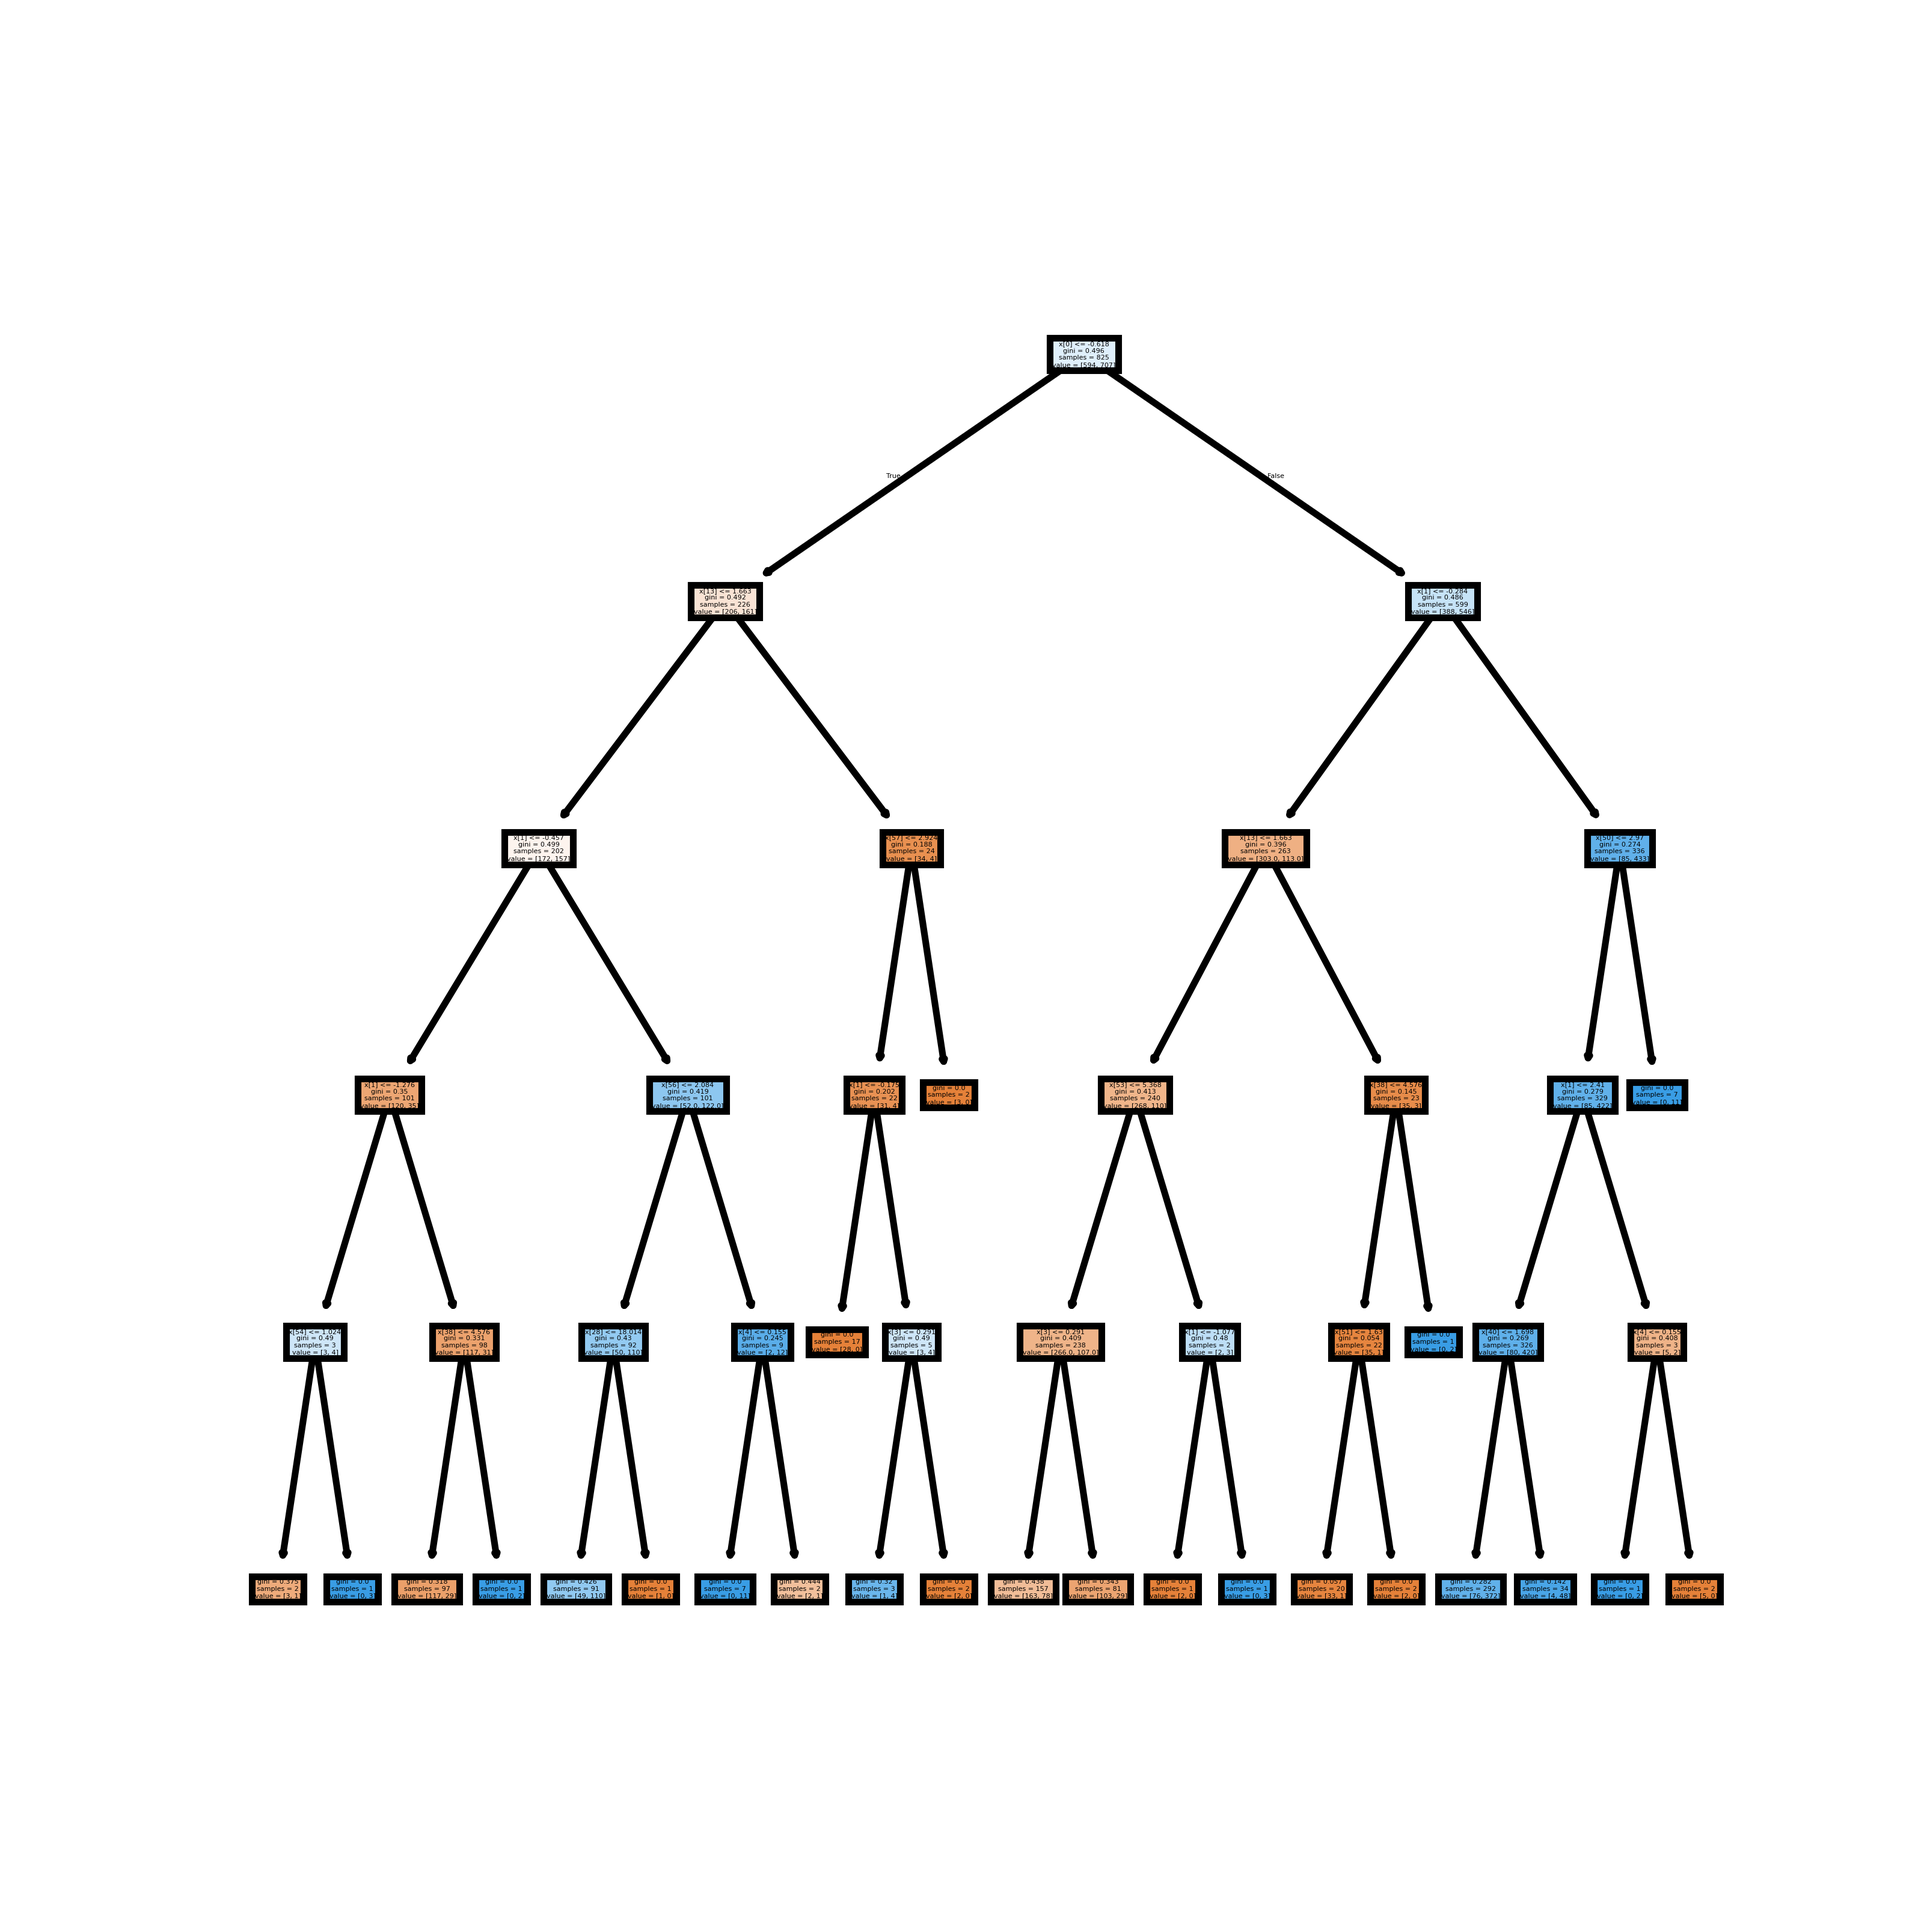
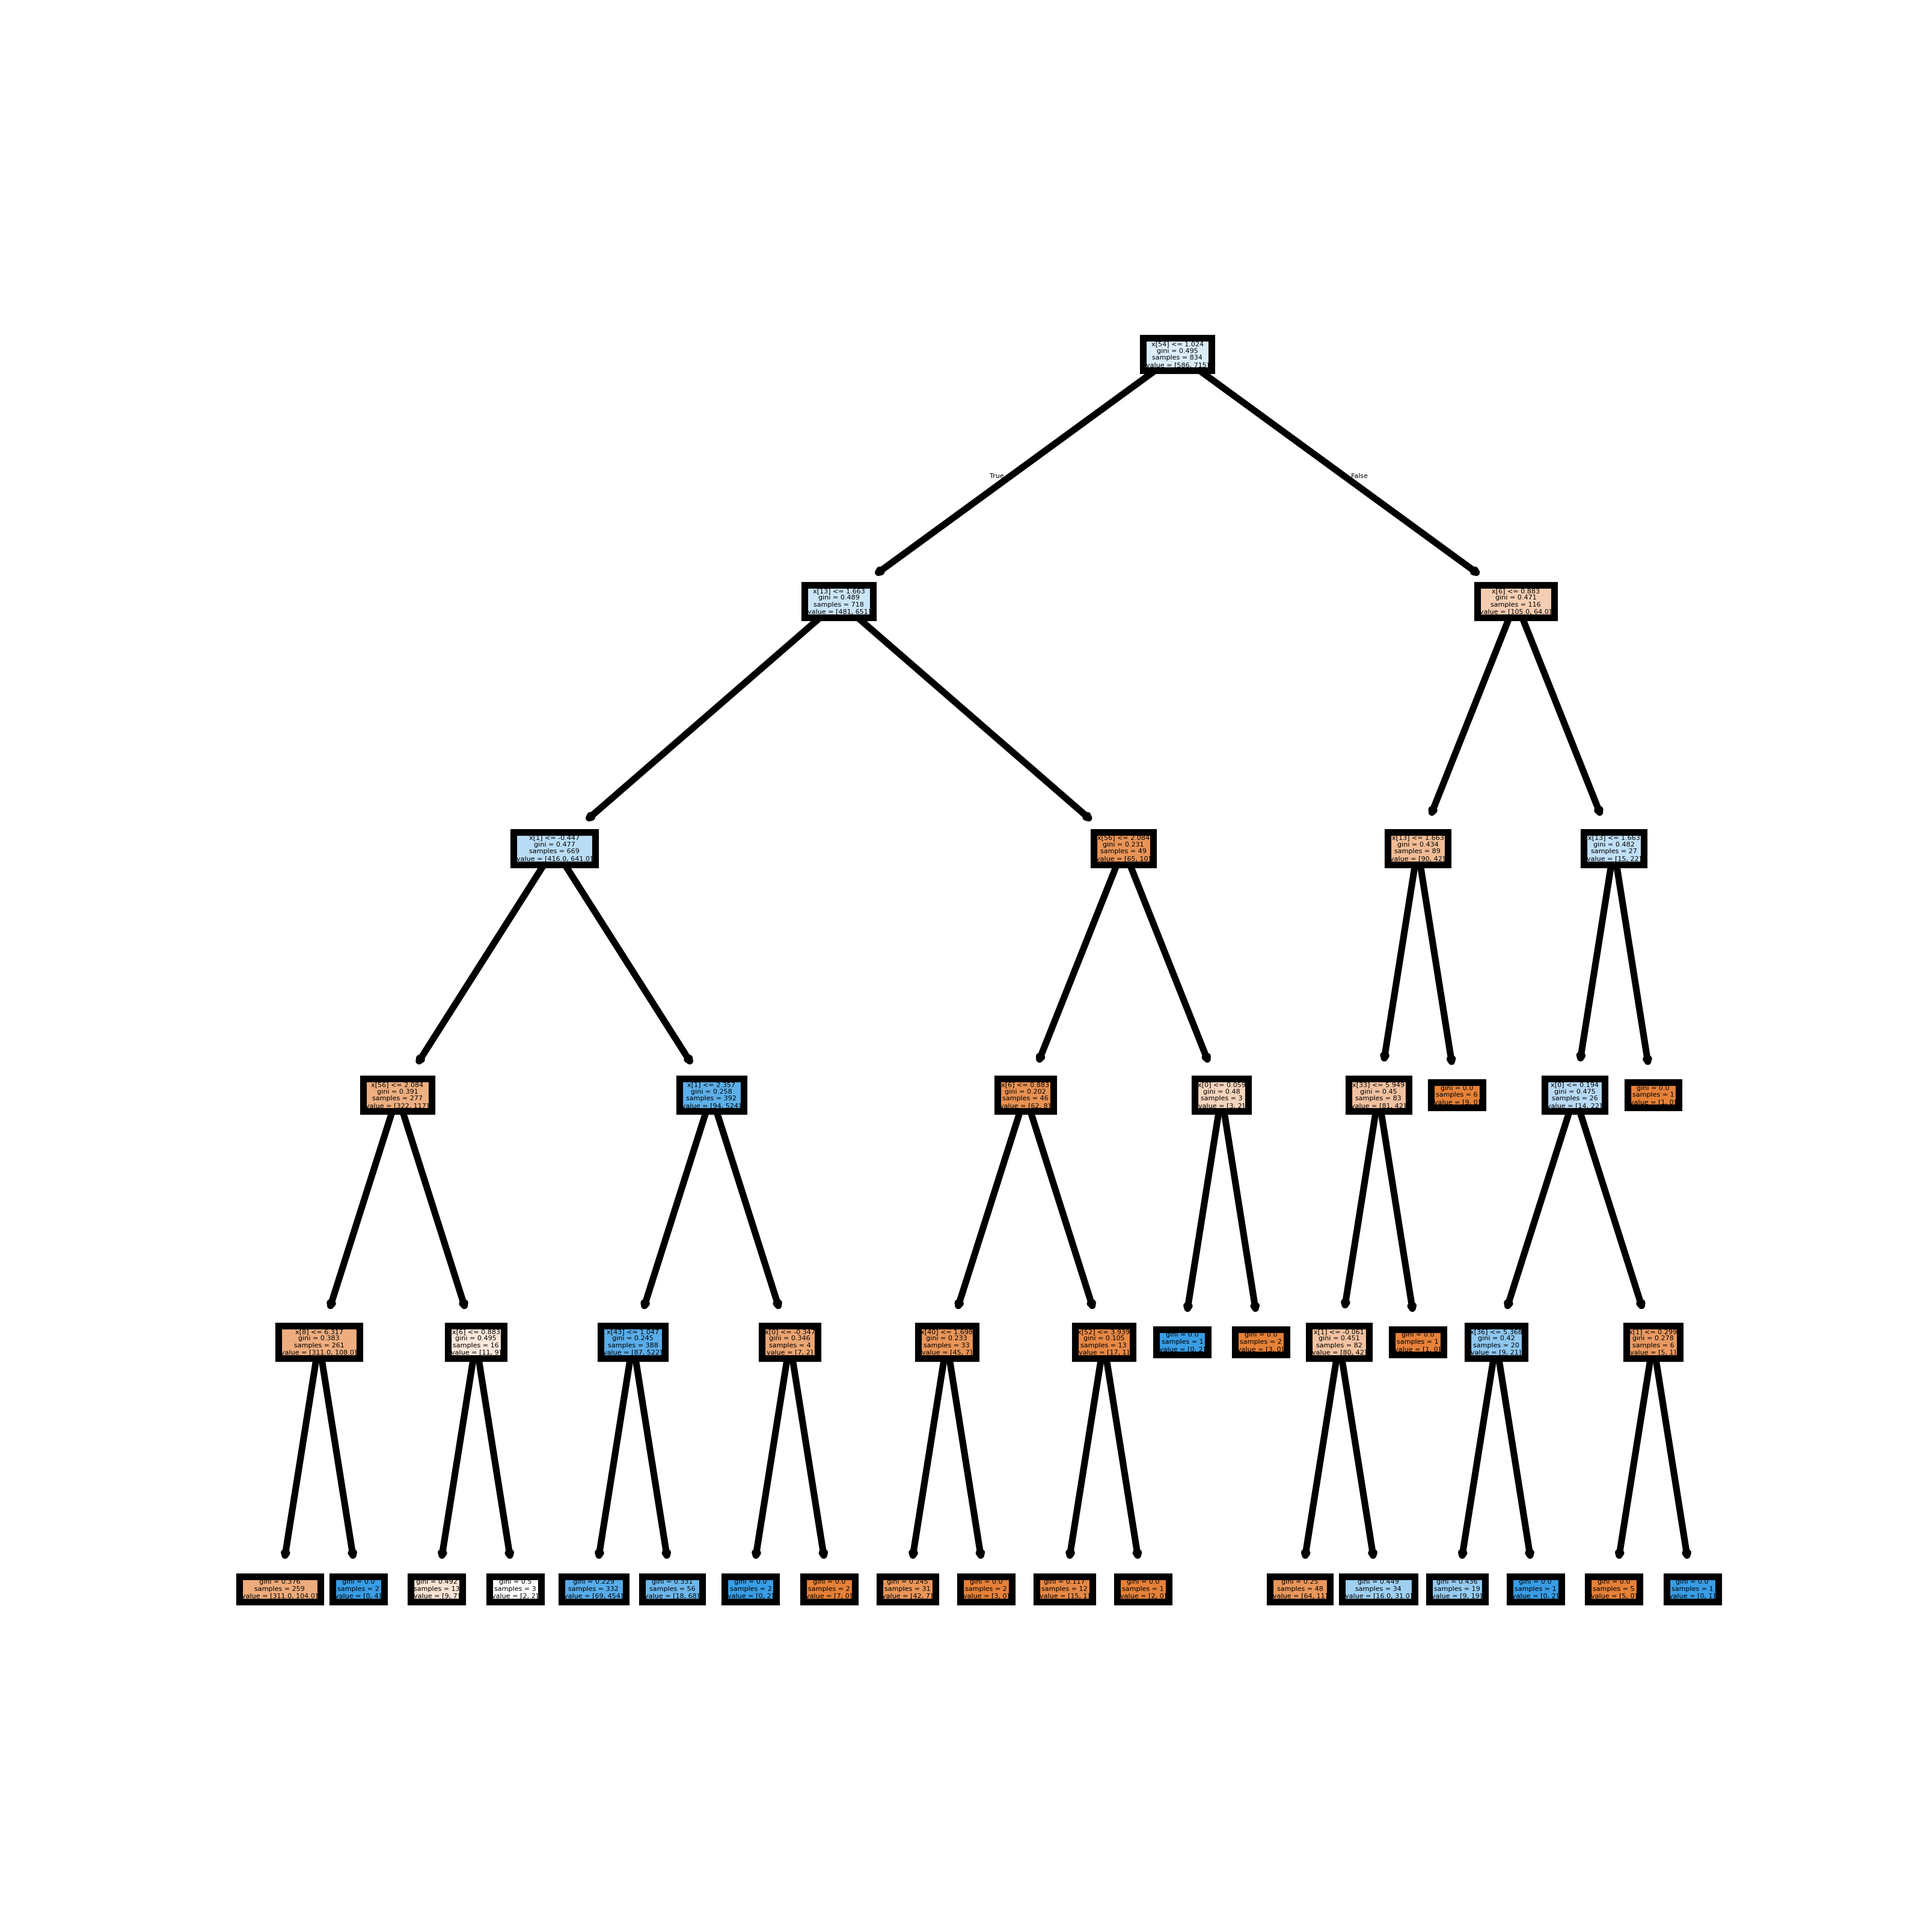
Adding files

diff --git a/Lead_scoring_dashboard.py b/Lead_scoring_dashboard.py
@@ -85,6 +85,7 @@ with tab1:
     # plot correlation matrix of variables
     corr = df_plot.corr(min_periods=5, numeric_only=True)
     # st.write(corr)
+    fig,ax = plt.subplots(figsize=(6,6))
     ax = sns.heatmap(
         corr,
         vmin=-1, vmax=1, center=0,
@@ -95,7 +96,7 @@ with tab1:
         ax.get_xticklabels(),
         rotation=45,
         horizontalalignment='right')
-    st.pyplot()
+    st.pyplot(fig)
 
 with tab2:
     # add dropdown widgets
@@ -111,8 +112,8 @@ with tab2:
                                                   'Country', 'Specialization'])
 
     # Checking if the data is imbalanced or not
-    sum(y) / len(y)
-    tr = y.value_counts(normalize=True)
+    r=sum(y) / len(y)
+    tr=y.value_counts(normalize=True)
     tr
     # 54% of the leads were converted. We need to make sure that we maintain the same % across both training and testing datasets
     # this kind of splitting the data maintaining the ratio is called "stratification"
@@ -132,15 +133,18 @@ with tab2:
     if selected_ML == 'Logistic':
         # plot confussion matrix
         confusion_matrix(y_test, predict_test)
+        fig,ax = plt.subplots(figsize=(6,6))
         cm = confusion_matrix(y_test, predict_test, labels=reg.classes_)
 
         disp = ConfusionMatrixDisplay(confusion_matrix=cm,
                                   display_labels=reg.classes_)
+
         disp.plot()
         plt.show()
 
 
         # Accuracy of logistics model test and train set
+        st.title("Accuracy Metrics LRM :")
         col1, col2, col3, col4 = st.columns(4)
         accuracy_test = accuracy_score(y_test, reg.predict(x_test_trany))
         recall_test = recall_score(y_test, reg.predict(x_test_trany), average='weighted')
@@ -170,6 +174,189 @@ with tab2:
         col3.metric("precision train", np.round(precision_train, 2))
         col4.metric("F1 train", np.round(f1_train, 2))
         st.pyplot()
+
+        # Feature importance
+        #reg.coef_
+        df_plot = pd.DataFrame({'coef': list(reg.coef_[0]), 'name': x_train.columns})
+        y = (px.bar(data_frame=df_plot, x='coef', y='name', height=2000))
+        st.plotly_chart(y)
+
+    if selected_ML == "Decision tree":
+
+        # Plot decision tree
+        st.title("Plot decision tree :")
+        clf = tree.DecisionTreeClassifier(max_depth=5)
+        clf = clf.fit(X_transform, y_train)
+        fig, axes = plt.subplots(nrows=1, ncols=1, figsize=(4, 4), dpi=800)
+        fig.savefig('clf_individualtree.png')
+        tree.plot_tree(clf)
+        st.pyplot(fig)
+
+        # feature importance
+        st.title("feature importance DT :")
+        #clf.feature_importances_
+        df_plot = pd.DataFrame({'coef': list(clf.feature_importances_), 'name': x_train.columns})
+        t = (px.bar(data_frame=df_plot[df_plot['coef'] > 0], x='coef', y='name', height=1000))
+        st.plotly_chart(t)
+
+        Predict_clf = clf.predict(x_test_trany, check_input=True)
+        #Predict_clf
+
+        # decision tree confusion matrix
+        st.title("Confusion matrix DT :")
+        confusion_matrix(y_test, Predict_clf)
+        cm = confusion_matrix(y_test, Predict_clf, labels=reg.classes_)
+        disp = ConfusionMatrixDisplay(confusion_matrix=cm,
+                                      display_labels=reg.classes_)
+        disp.plot()
+        plt.show()
+        st.pyplot()
+
+        # Metrics
+        st.title("Accuracy Metrics DT :")
+        col1, col2, col3, col4 = st.columns(4)
+        accuracy_test = accuracy_score(y_test, clf.predict(x_test_trany))
+        recall_test = recall_score(y_test, clf.predict(x_test_trany), average='weighted')
+
+        precision_test = precision_score(y_test, clf.predict(x_test_trany), average='weighted')
+
+        f1_test = f1_score(y_test, clf.predict(x_test_trany), average='weighted')
+
+
+        col1.metric("accuracy test", np.round(accuracy_test, 2))
+        col2.metric("recall test", np.round(recall_test, 2))
+        col3.metric("precision test", np.round(precision_test, 2))
+        col4.metric("F1 test", np.round(f1_test, 2))
+        st.pyplot()
+
+
+        # train
+        accuracy_train = accuracy_score(y_train, clf.predict(X_transform))
+        recall_train = recall_score(y_train, clf.predict(X_transform), average='weighted')
+
+        precision_train = precision_score(y_train, clf.predict(X_transform), average='weighted')
+
+        f1_train = f1_score(y_train, clf.predict(X_transform), average='weighted')
+
+        col1.metric("accuracy train", np.round(accuracy_train, 2))
+        col2.metric("recall train", np.round(recall_train, 2))
+        col3.metric("precision train", np.round(precision_train, 2))
+        col4.metric("F1 train", np.round(f1_train, 2))
+        st.pyplot()
+
+    if selected_ML == "Random forest":
+        # plot random forest
+        st.title("Plot Random forest :")
+        clf1 = RandomForestClassifier(n_estimators=50, max_depth=5)
+        clf1 = clf1.fit(X_transform, y_train)
+        fig, axes = plt.subplots(nrows=1, ncols=1, figsize=(4, 4), dpi=800)
+        tree.plot_tree(clf1.estimators_[5],
+                       feature_names=None,
+                       class_names=None,
+                       filled=True);
+        fig.savefig('clf1_individualtree.png')
+        st.pyplot(fig)
+
+        # feature importance
+        st.title("Feature importance RF :")
+        #clf1.feature_importances_
+        df_plot = pd.DataFrame({'coef': list(clf1.feature_importances_), 'name': x_train.columns})
+        r = (px.bar(data_frame=df_plot[df_plot['coef'] > 0], x='coef', y='name', height=500))
+        st.plotly_chart(r)
+
+        Predict_clf1 = clf1.predict(x_test_trany)
+
+        # plot confusion matrix
+        st.title("Confusion matrix RF :")
+        confusion_matrix(y_test, Predict_clf1)
+        cm = confusion_matrix(y_test, Predict_clf1, labels=reg.classes_)
+        disp = ConfusionMatrixDisplay(confusion_matrix=cm,
+                                      display_labels=reg.classes_)
+        disp.plot()
+        plt.show()
+        st.pyplot()
+
+
+        st.title("Accuracy Metrics RF :")
+        col1, col2, col3, col4 = st.columns(4)
+        accuracy_test = accuracy_score(y_test, clf1.predict(x_test_trany))
+        recall_test = recall_score(y_test, clf1.predict(x_test_trany), average='weighted')
+        precision_test = precision_score(y_test, clf1.predict(x_test_trany), average='weighted')
+        f1_test = f1_score(y_test, clf1.predict(x_test_trany), average='weighted')
+
+        col1.metric("accuracy test", np.round(accuracy_test, 2))
+        col2.metric("recall test", np.round(recall_test, 2))
+        col3.metric("precision test", np.round(precision_test, 2))
+        col4.metric("F1 test", np.round(f1_test, 2))
+        st.pyplot()
+
+        # train
+        accuracy_train = accuracy_score(y_train, clf1.predict(X_transform))
+        recall_train = recall_score(y_train, clf1.predict(X_transform), average='weighted')
+
+        precision_train = precision_score(y_train, clf1.predict(X_transform), average='weighted')
+
+        f1_train = f1_score(y_train, clf1.predict(X_transform), average='weighted')
+
+        col1.metric("accuracy train", np.round(accuracy_train, 2))
+        col2.metric("recall train", np.round(recall_train, 2))
+        col3.metric("precision train", np.round(precision_train, 2))
+        col4.metric("F1 train", np.round(f1_train, 2))
+        st.pyplot()
+
+    if selected_ML == "XGBoost":
+        # Plot XGBoost model
+        st.title("Plot XGBoost model :")
+        GBx = xgb.XGBClassifier(n_estimators=5, max_depth=5)
+        GBx.fit(X_transform, y_train)
+        xgb.plot_tree(GBx, num_trees=2)
+        plt.rcParams['figure.figsize'] = [5, 5]
+        st.pyplot()
+
+        # feature importance
+        st.title("feature importance :")
+        #GBx.feature_importances_
+        df_plot = pd.DataFrame({'coef': list(GBx.feature_importances_), 'name': x_train.columns})
+        x = (px.bar(data_frame=df_plot[df_plot['coef'] > 0], x='coef', y='name', height=2000))
+        st.plotly_chart(x)
+
+        # plot confusion matrix
+        st.title("confusion matrix :")
+        Predict_GBx = GBx.predict(x_test_trany)
+
+        confusion_matrix(y_test, Predict_GBx)
+        cm = confusion_matrix(y_test, Predict_GBx, labels=reg.classes_)
+        disp = ConfusionMatrixDisplay(confusion_matrix=cm,
+                                      display_labels=reg.classes_)
+        disp.plot()
+        plt.show()
+        st.pyplot()
+
+        st.title("Accuracy Metrics :")
+        col1, col2, col3, col4 = st.columns(4)
+        accuracy_test = accuracy_score(y_test, GBx.predict(x_test_trany))
+        recall_test = recall_score(y_test, GBx.predict(x_test_trany), average='weighted')
+        precision_test = precision_score(y_test, GBx.predict(x_test_trany), average='weighted')
+        f1_test = f1_score(y_test, GBx.predict(x_test_trany), average='weighted')
+
+        col1.metric("accuracy test", np.round(accuracy_test, 2))
+        col2.metric("recall test", np.round(recall_test, 2))
+        col3.metric("precision test", np.round(precision_test, 2))
+        col4.metric("F1 test", np.round(f1_test, 2))
+        st.pyplot()
+
+        # Train
+        accuracy_train = accuracy_score(y_train, GBx.predict(X_transform))
+        recall_train = recall_score(y_train, GBx.predict(X_transform), average='weighted')
+        precision_train = precision_score(y_train, GBx.predict(X_transform), average='weighted')
+        f1_train = f1_score(y_train, GBx.predict(X_transform), average='weighted')
+
+        col1.metric("accuracy train", np.round(accuracy_train, 2))
+        col2.metric("recall train", np.round(recall_train, 2))
+        col3.metric("precision train", np.round(precision_train, 2))
+        col4.metric("F1 train", np.round(f1_train, 2))
+        st.pyplot()
+
 
 
 
